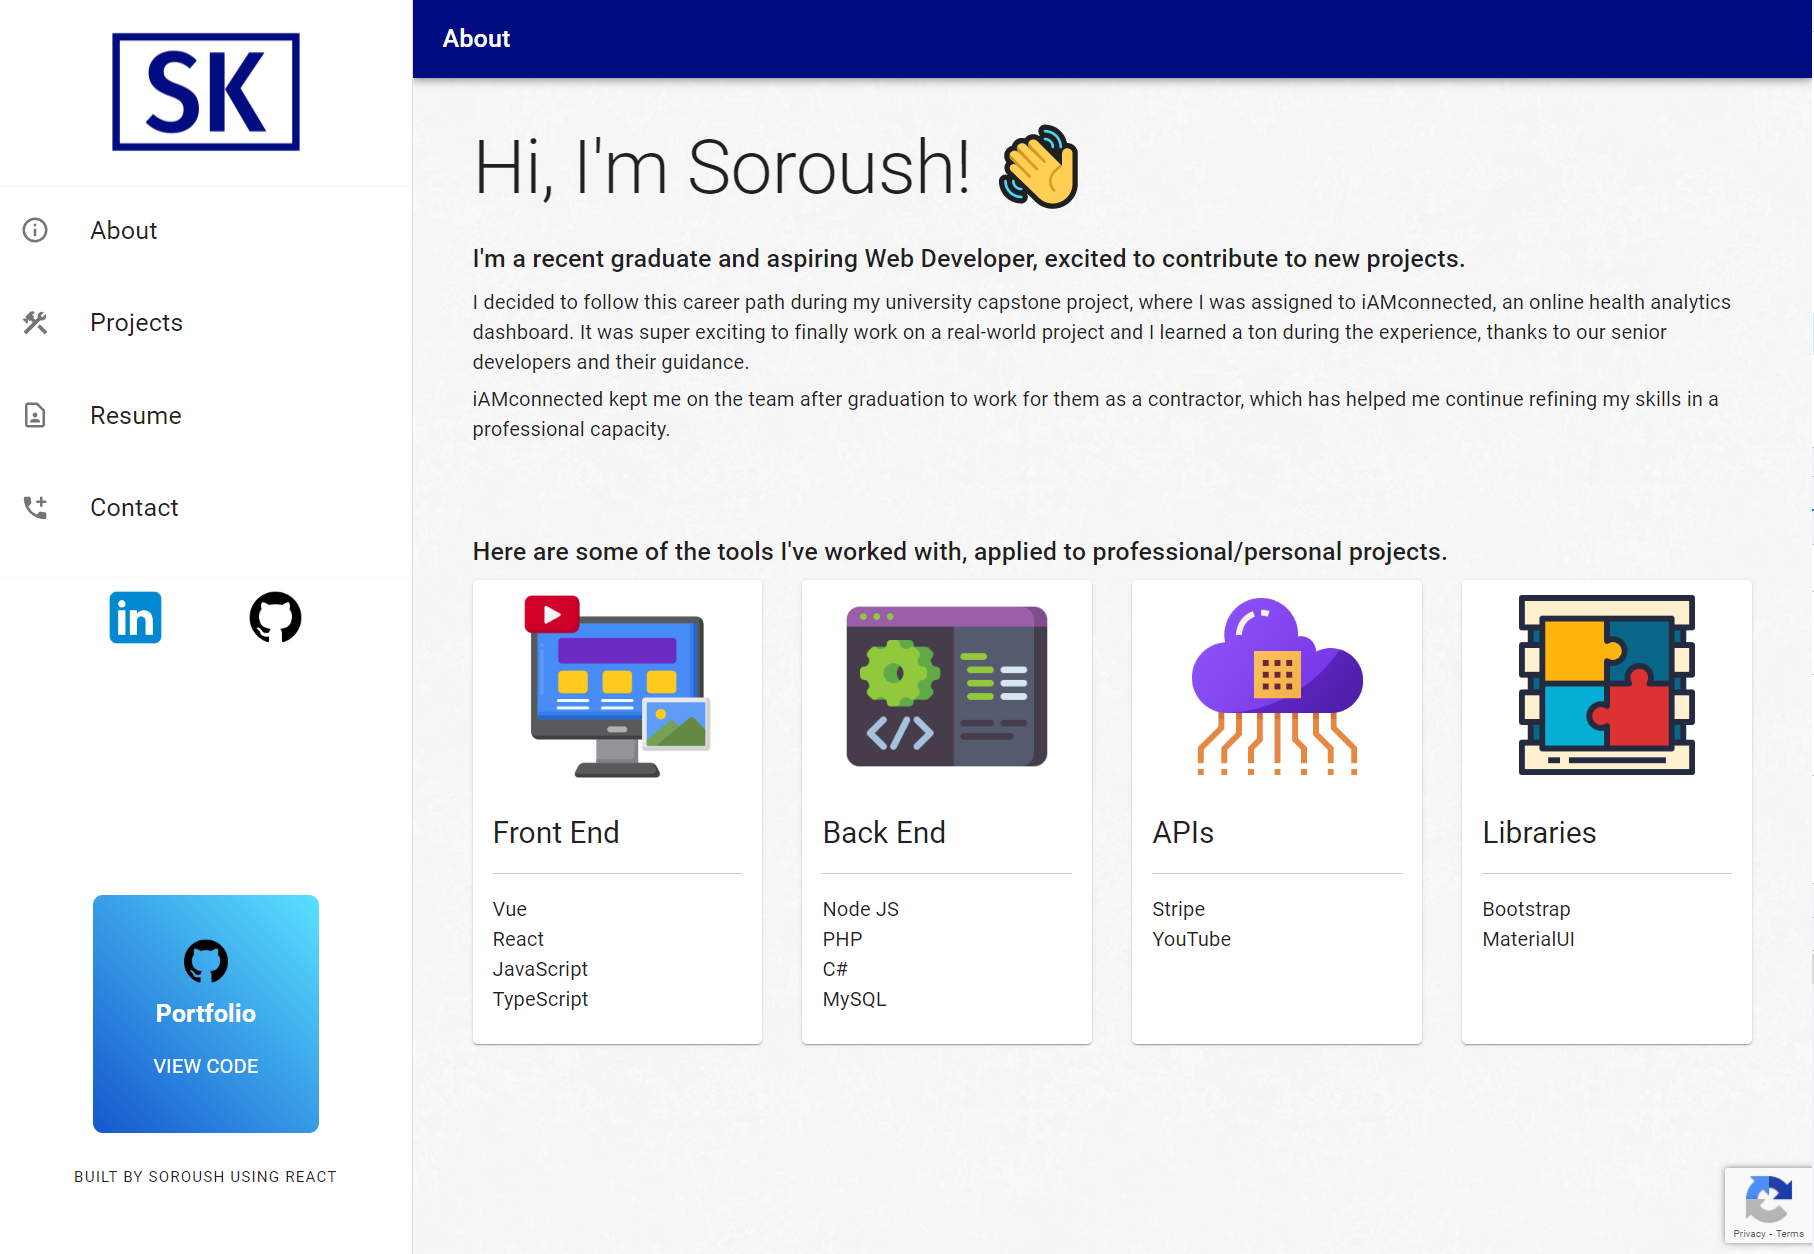
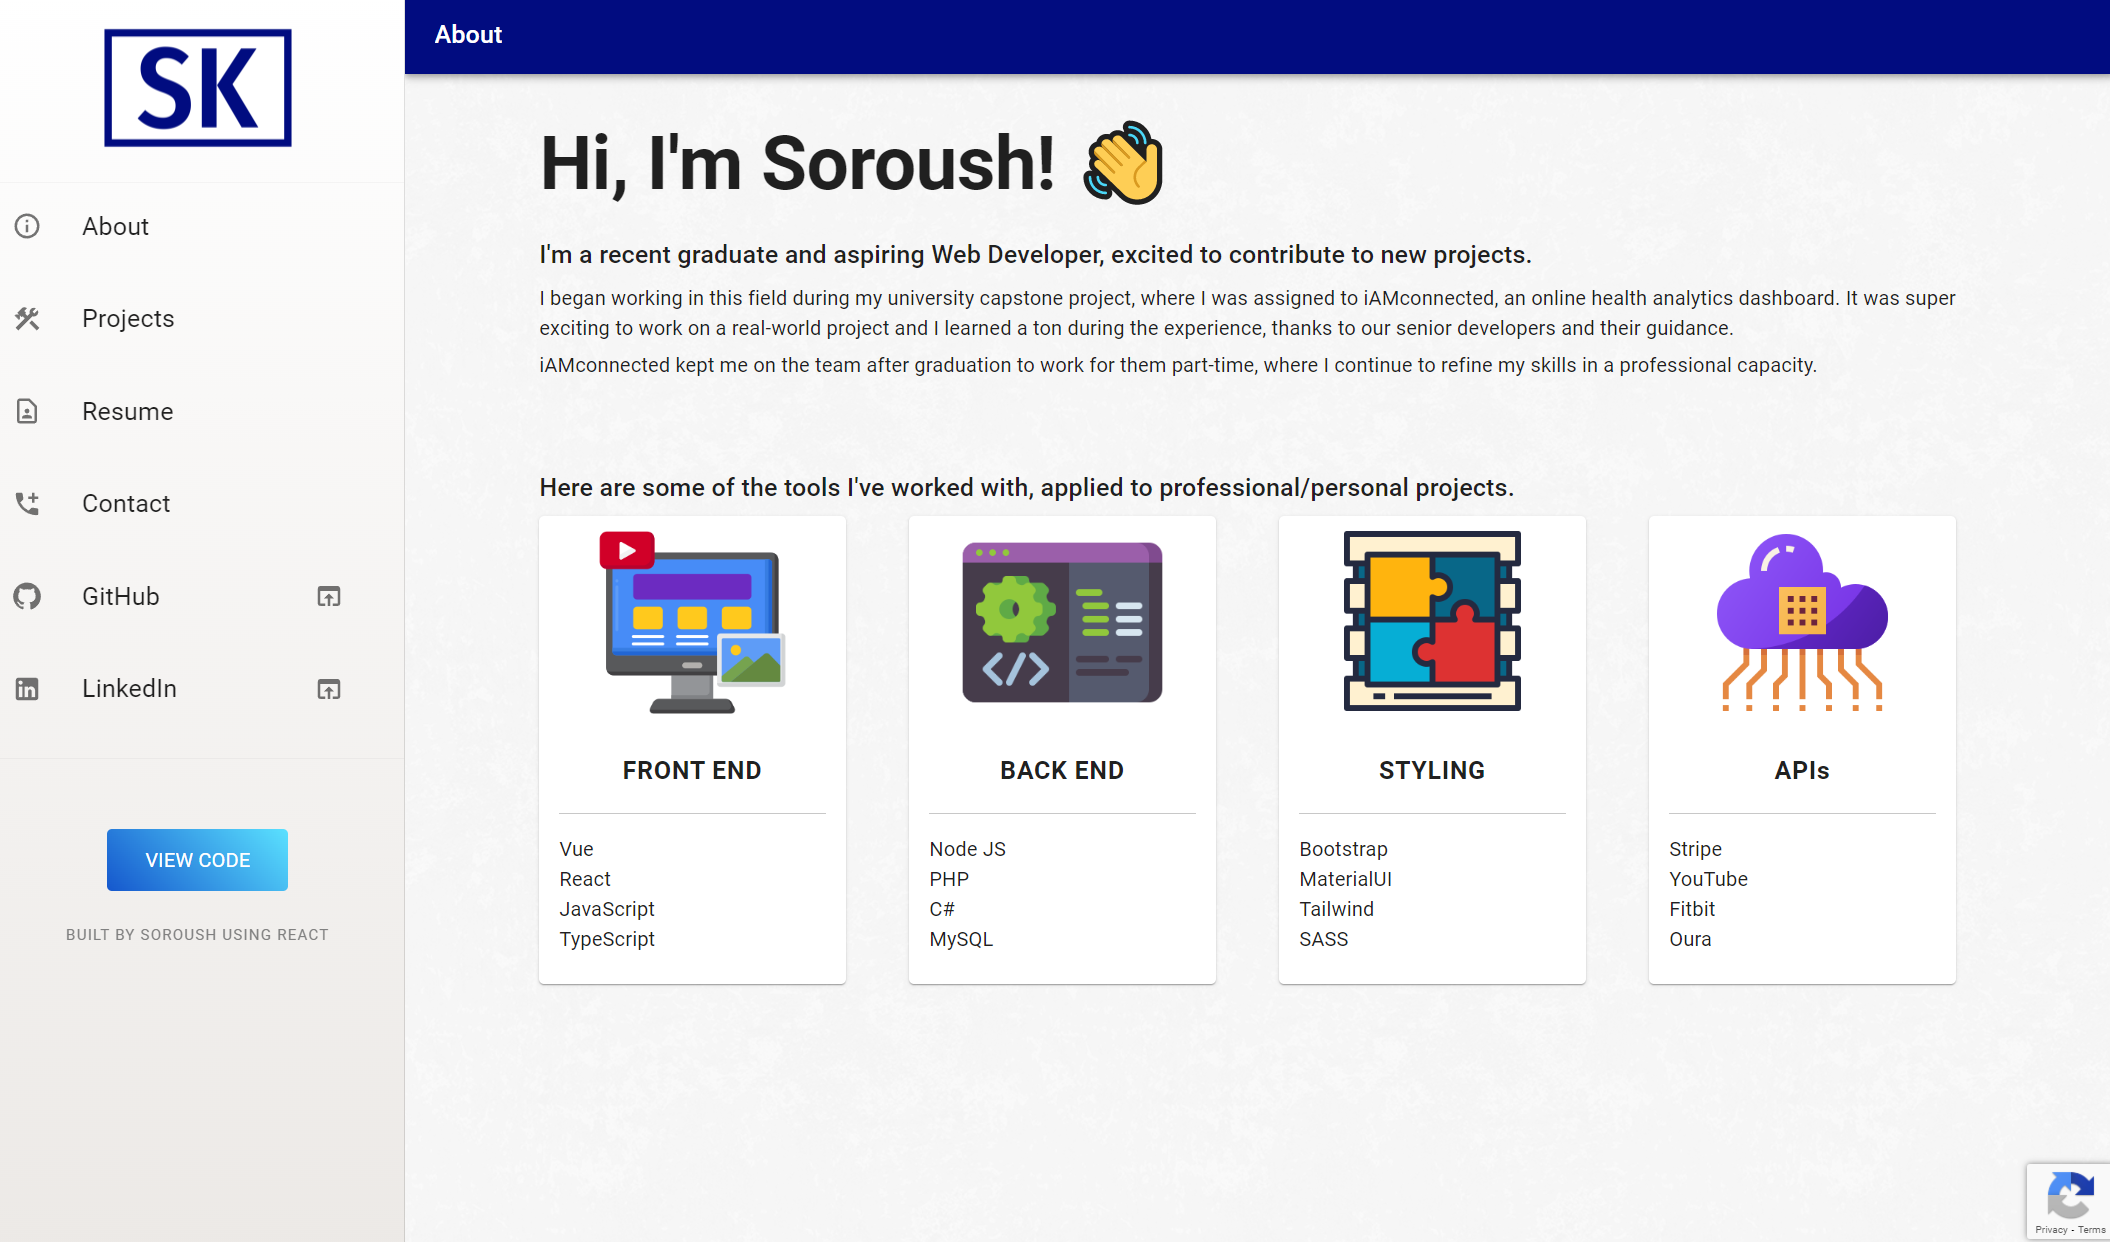
Completed v1

diff --git a/src/components/Projects.js b/src/components/Projects.js
@@ -6,7 +6,7 @@ import Lightbox from "yet-another-react-lightbox";
 import Thumbnails from "yet-another-react-lightbox/plugins/thumbnails";
 import "yet-another-react-lightbox/styles.css";
 import "yet-another-react-lightbox/plugins/thumbnails.css";
-import { IAMC, portfolio } from '../data/projectData';
+import { IAMC, restore, portfolio } from '../data/projectData';
 import {
     ReactIcon,
     VueIcon,
@@ -28,6 +28,7 @@ export default function Projects() {
     function initLightbox(index, itemSlides) {
         if (itemSlides === 'IAMC') itemSlides = IAMC;
         if (itemSlides === 'portfolio') itemSlides = portfolio;
+        if (itemSlides === 'restore') itemSlides = restore;
         setSlides(itemSlides);
         setIndex(index);
         setOpen(true);
@@ -37,7 +38,7 @@ export default function Projects() {
     {
         return (        
             <a href='#gallery' onClick={() => initLightbox(props.item.index, props.item.parent)}>
-                <img src={props.item.src} alt='carouselImg' height="544px" component="img" loading='lazy'/>
+                <img src={props.item.src} alt='carouselImg' height='544px' component="img" loading='lazy'/>
                 <Typography variant='caption' className='imageCaption'>
                     {props.item.caption}
                 </Typography>  
@@ -69,18 +70,18 @@ export default function Projects() {
                         swipe={false}
                         navButtonsAlwaysVisible='true'
                         animation='fade'
-                        cycleNavigation={false}                      
+                        cycleNavigation={false}                        
                         >
-                            {
-                                IAMC.map( (item, i) => <Item key={i} item={item} /> )
-                            }
+                        {
+                            IAMC.map( (item, i) => <Item key={i} item={item} /> )
+                        }
                         </Carousel>          
                     </div>
                     
                     <CardContent>
                     <VueIcon /><TSIcon /><PHPIcon /><MySQLIcon />
 
-                    <Typography gutterBottom variant="h5" component="div">
+                    <Typography gutterBottom variant="h5" component="div"  sx={{mt: '10px'}}>
                         iAMconnected
                         <Button variant="outlined" href="https://app.iamconnected.com" target="_blank" underline="none" sx={{marginLeft: '10px', float: 'right'}}>
                         Visit Site
@@ -104,13 +105,15 @@ export default function Projects() {
                     animation='fade'
                     cycleNavigation={false}
                     >
-                        
+                    {
+                        restore.map( (item, i) => <Item key={i} item={item} /> )
+                    }    
                     </Carousel>
                 </div>
                     <CardContent>
                     <ReactIcon /><TSIcon /><DotNetIcon /><PostgresIcon />
                     
-                    <Typography gutterBottom variant="h5" component="div">
+                    <Typography gutterBottom variant="h5" component="div"  sx={{mt: '10px'}}>
                         ReStore eCommerce (WIP)
                         <Button variant="outlined" href="https://github.com/SoroKha/ReStore" underline="none" target="_blank" sx={{float: 'right'}}>
                         GitHub
@@ -121,7 +124,8 @@ export default function Projects() {
                     <Typography variant="body1">
                         Interested in learning React and .NET, I decided to create a mock eCommerce site. There
                         were a lot of front end and server-side facets to incorporate, which made it very valuable
-                        for learning the intricacies of both tools. 
+                        for learning the intricacies of both tools. The database was mapped and initialised using
+                        Microsoft Entity Framework and user accounts are managed through the .NET Identity API.
                     </Typography>
                     </CardContent>
                 </Card>
@@ -135,17 +139,17 @@ export default function Projects() {
                     animation='fade'
                     cycleNavigation={false}
                     >
-                        {
-                            portfolio.map( (item, i) => <Item key={i} item={item} /> )
-                        }
+                    {
+                        portfolio.map( (item, i) => <Item key={i} item={item} /> )
+                    }
                     </Carousel>
                 </div>
                     <CardContent>
 
                     <ReactIcon /><JSIcon />
 
-                    <Typography gutterBottom variant="h5" component="div">
-                        Portfolio
+                    <Typography gutterBottom variant="h5" component="div" sx={{mt: '10px'}}>
+                        SoroKha
                         <Button variant="outlined" href="https://github.com/SoroKha/portfolio" underline="none" target="_blank" sx={{float: 'right'}}>
                         GitHub
                         </Button> 

diff --git a/src/components/About.js b/src/components/About.js
@@ -19,11 +19,11 @@ export default function About() {
         <Typography variant='h2' fontWeight="fontWeightBold" gutterBottom>Hi, I'm Soroush! &#128075;</Typography>
         <Typography variant='h6' gutterBottom>I'm a recent graduate and aspiring Web Developer, excited to contribute to new projects.</Typography>
         <Typography variant='body1' gutterBottom>
-        I decided to follow this career path during my university capstone project, where I was assigned to iAMconnected, an online health analytics dashboard.
-        It was super exciting to finally work on a real-world project and I learned a ton during the experience, thanks to our senior developers and their guidance.          
+        I began working in this field during my university capstone project, where I was assigned to iAMconnected, an online health analytics dashboard.
+        It was super exciting to work on a real-world project and I learned a ton during the experience, thanks to our senior developers and their guidance.          
         </Typography>
         <Typography variant='body1' gutterBottom>
-        iAMconnected kept me on the team after graduation to work for them as a contractor, which has helped me continue refining my skills in a professional capacity.
+        iAMconnected kept me on the team after graduation to work for them part-time, where I continue to refine my skills in a professional capacity.
         </Typography>
       </Container>
       <Container sx={{ py: 4, float: 'center' }} maxWidth="lg">
@@ -49,7 +49,7 @@ export default function About() {
             <Grid item xs={12} sm={6} md={4} lg={3}>
               <Card sx={{ maxWidth: 245 }}>
               <div style={{textAlign: 'center', display: 'flex', justifyContent: 'center'}}>
-                <img src='about/backend.png' alt='FrontEnd' width='171px'/>
+                <img src='about/backend.png' alt='BackEnd' width='171px'/>
               </div>
               
                 <CardContent>
@@ -67,16 +67,15 @@ export default function About() {
             <Grid item xs={12} sm={6} md={4} lg={3}>
               <Card sx={{ maxWidth: 245 }}>
               <div style={{textAlign: 'center', display: 'flex', justifyContent: 'center'}}>
-                <img src='about/api.png' alt='FrontEnd' width='171px' style={{padding: '10px'}}/>
-              </div>
-              
+                <img src='about/library.png' alt='Styling' width='171px' style={{padding: '10px'}}/>
+              </div>         
                 <CardContent>
                   <Typography sx={{textAlign: 'center'}} variant="button" fontSize='20px' fontWeight='600'  component="div">
-                    API
+                    Styling
                   </Typography>
                   <hr></hr>
                   <Typography variant="body1">
-                    Stripe <br></br> YouTube <br></br> Fitbit <br></br> Oura <br></br> 
+                  Bootstrap <br></br> MaterialUI <br></br> Tailwind <br></br> SASS <br></br> 
                   </Typography>
                 </CardContent>
               </Card>
@@ -84,16 +83,15 @@ export default function About() {
             <Grid item xs={12} sm={6} md={4} lg={3}>
               <Card sx={{ maxWidth: 245 }}>
               <div style={{textAlign: 'center', display: 'flex', justifyContent: 'center'}}>
-                <img src='about/library.png' alt='FrontEnd' width='171px' style={{padding: '10px'}}/>
+                <img src='about/api.png' alt='API' width='171px' style={{padding: '10px'}}/>
               </div>
-              
                 <CardContent>
-                  <Typography sx={{textAlign: 'center'}} variant="button" fontSize='20px' fontWeight='600'  component="div">
-                    Libraries
+                  <Typography sx={{textAlign: 'center', textTransform: 'none'}} variant="button" fontSize='20px' fontWeight='600'  component="div">
+                    APIs
                   </Typography>
                   <hr></hr>
                   <Typography variant="body1">
-                  Bootstrap <br></br> MaterialUI <br></br>  <br></br>  <br></br> 
+                    Stripe <br></br> YouTube <br></br> Fitbit <br></br> Oura <br></br> 
                   </Typography>
                 </CardContent>
               </Card>

diff --git a/src/components/Contact.js b/src/components/Contact.js
@@ -1,10 +1,11 @@
 import '../App.css';
 import React, { useRef, useState } from 'react';
-import { Grid, TextField, Button, Card, CardContent, Typography, Box, Container } from '@mui/material';
+import { Grid, TextField, Button, Card, CardContent, Typography, Box, Container, Alert, Collapse, IconButton } from '@mui/material';
 import emailjs from '@emailjs/browser';
 import Swal from 'sweetalert2';
 import { GoogleReCaptcha } from 'react-google-recaptcha-v3';
 import FadeIn from 'react-fade-in';
+import CloseIcon from '@mui/icons-material/Close'
 
 const drawerWidth = 330;
 const SERVICE_ID = process.env.REACT_APP_SERVICE_ID;
@@ -15,6 +16,8 @@ export default function Contact() {
     const form = useRef();
     const [verified, setVerified] = useState(false);
     const [scroll, setScroll] = React.useState('hidden');
+    const [open, setOpen] = React.useState(false);
+    
 
     function captcha() {
         setVerified(true);
@@ -81,7 +84,35 @@ export default function Contact() {
                 <Grid item xs={12} style={{paddingTop: '10px'}}>
                   <Button disabled={!verified} type="submit" size='large' variant="contained" color="primary" style={{width: '304px'}}>Send Message</Button>
                 </Grid>
-
+                <Grid item xs={12} style={{paddingTop: '10px'}}>
+                <Button
+                  disabled={open}    
+                  onClick={() => {
+                    setOpen(true);
+                  }}
+                 >
+                  Not working?
+                  </Button>
+                  <Collapse in={open}>
+                  <Alert
+                    severity='info'
+                    action={
+                      <IconButton
+                        aria-label="close"
+                        color="inherit"
+                        size="small"
+                        onClick={() => {
+                          setOpen(false);
+                        }}
+                      >
+                        <CloseIcon fontSize="inherit" />
+                      </IconButton>
+                    }
+                  >
+                    Contact me directly at soroushkhammar@gmail.com
+                  </Alert>
+                  </Collapse>
+                </Grid>    
               </Grid>
             </form>
           </CardContent>

diff --git a/src/data/iconsData.js b/src/data/iconsData.js
@@ -1,8 +1,8 @@
-export function ReactIcon() { return <img src='/icons/react_icon.png' title='React' alt='React' style={{paddingRight: '10px'}} /> }
-export function VueIcon() { return <img src='/icons/vue_icon.png' title='Vue' alt='Vue' style={{paddingRight: '10px'}} /> }
-export function TSIcon() { return <img src='/icons/ts_icon.png' title='TypeScript' alt='TypeScript' style={{paddingRight: '10px'}} /> }
-export function JSIcon() { return <img src='/icons/js_icon.png' title='JavaScript' alt='JavaScript' style={{paddingRight: '10px'}} /> }
-export function DotNetIcon() { return <img src='/icons/dotnet_icon.png' title='.Net' alt='.Net' style={{paddingRight: '10px'}} /> }
-export function PostgresIcon() { return <img src='/icons/postgres_icon.png' title='Postgres' alt='Postgres' style={{paddingRight: '10px'}} /> }
-export function PHPIcon() { return <img src='/icons/php_icon.png' title='PHP' alt='PHP' style={{paddingRight: '10px'}} /> }
-export function MySQLIcon() { return <img src='/icons/mysql_icon.png' title='MySQL' alt='MySQL' style={{paddingRight: '10px'}} /> }
+export function ReactIcon() { return <img src='/icons/react_icon.png' title='React' alt='React' style={{paddingRight: '15px'}} /> }
+export function VueIcon() { return <img src='/icons/vue_icon.png' title='Vue' alt='Vue' style={{paddingRight: '15px'}} /> }
+export function TSIcon() { return <img src='/icons/ts_icon.png' title='TypeScript' alt='TypeScript' style={{paddingRight: '15px'}} /> }
+export function JSIcon() { return <img src='/icons/js_icon.png' title='JavaScript' alt='JavaScript' style={{paddingRight: '15px'}} /> }
+export function DotNetIcon() { return <img src='/icons/dotnet_icon.png' title='.Net' alt='.Net' style={{paddingRight: '15px'}} /> }
+export function PostgresIcon() { return <img src='/icons/postgres_icon.png' title='Postgres' alt='Postgres' style={{paddingRight: '15px'}} /> }
+export function PHPIcon() { return <img src='/icons/php_icon.png' title='PHP' alt='PHP' style={{paddingRight: '15px'}} /> }
+export function MySQLIcon() { return <img src='/icons/mysql_icon.png' title='MySQL' alt='MySQL' style={{paddingRight: '15px'}} /> }

diff --git a/src/components/Drawer.js b/src/components/Drawer.js
@@ -52,7 +52,7 @@ export default function ResponsiveDrawer(props) {
             <ListItem style={{color: '#000000DE', marginBottom: '20px'}} key={text} component={Link} to={route} target={target} disablePadding>
               <ListItemButton>
                 <ListItemIcon>{icon}</ListItemIcon>
-                <ListItemText disableTypography style={{fontSize: '20px', fontFamily: 'Times'}} primaryTypographyProps={{fontSize: '20px'}}   primary={text}/><ListItemIcon>{extraIcon}</ListItemIcon>
+                <ListItemText disableTypography style={{fontSize: '20px'}} primaryTypographyProps={{fontSize: '20px'}} primary={text}/><ListItemIcon>{extraIcon}</ListItemIcon>
                 
               </ListItemButton>  
             </ListItem>

diff --git a/src/data/projectData.js b/src/data/projectData.js
@@ -59,3 +59,34 @@ export const portfolio = [
         index: 2,
     },
 ]
+
+export const restore = [
+    {
+        name: "restore1",
+        src: "/projects/restore1.png",
+        parent: 'restore',
+        caption: '',
+        index: 0,
+    },
+    {
+        name: "restore2",
+        src: "/projects/restore2.png",
+        parent: 'restore',
+        caption: '',
+        index: 1,
+    },
+    {
+        name: "restore3",
+        src: "/projects/restore3.png",
+        parent: 'restore',
+        caption: '',
+        index: 2,
+    },
+    {
+        name: "restore4",
+        src: "/projects/restore4.png",
+        parent: 'restore',
+        caption: '',
+        index: 3,
+    },
+]
